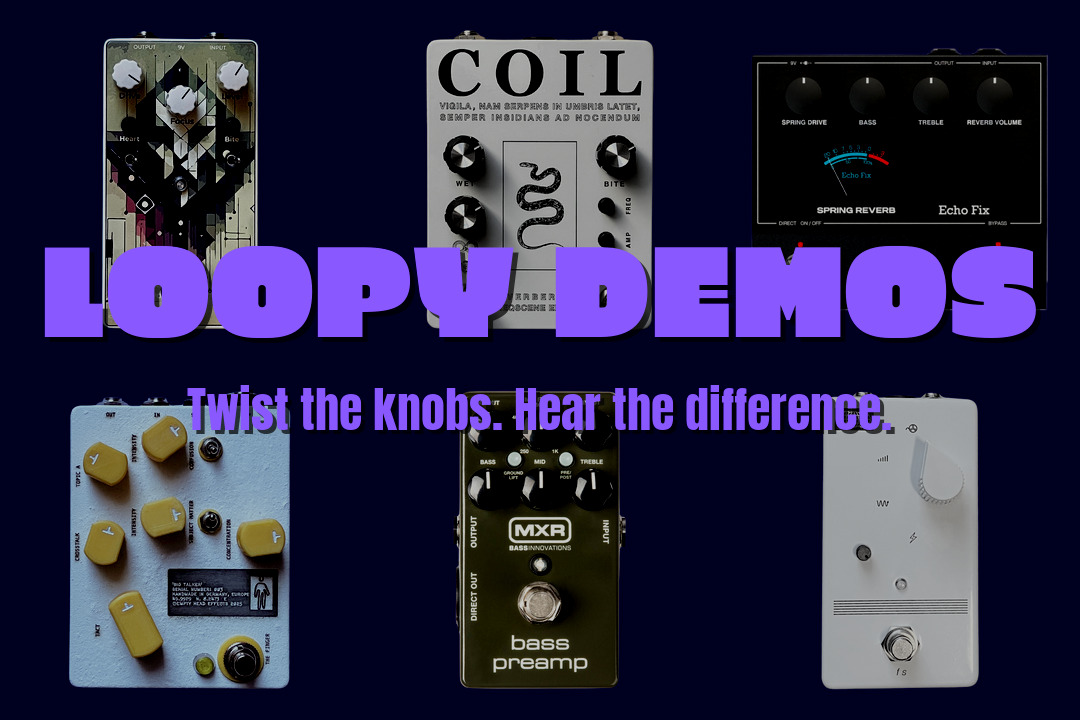
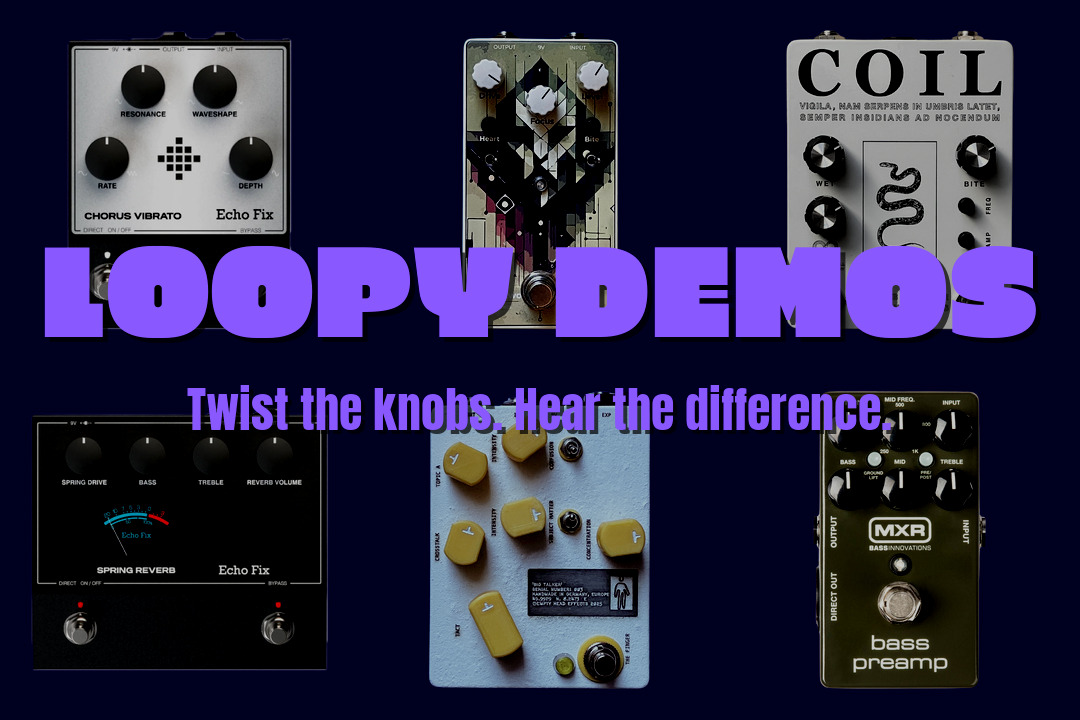
Echo fix chorus vibrato (#36)
* add basic files

* add some presets

* more presets

* add copy

---------

diff --git a/src/content/demos/echo-fix-ef-p3-chorus-vibrato.md b/src/content/demos/echo-fix-ef-p3-chorus-vibrato.md
@@ -1,0 +1,32 @@
+---
+builder: Echo Fix
+model: EF-P3 Chorus Vibrato
+slug: echo-fix-ef-p3-chorus-vibrato
+type: demo
+isSponsored: true
+date: 2025-05-28
+tags:
+  - chorus
+  - vibrato
+  - lo-fi
+externalLinks:
+  thomann: echo_fix_ef_p3_chorus_vibrato
+  builderLink: https://echofix.com/collections/pedals/products/echo-fix-ef-p3-chorus-vibrato-pedal
+---
+
+The EF-P3 Chorus Vibrato by Echo Fix is the luxury version of vintage chorus and vibrato pedals in modern format.
+
+It has a no-frills, utilitarian vibe but offers great variety with unique controls to fine tune how your sound gets warbled.
+
+**WAVESHAPE** can be smoothly adjusted from a lush, subtle sine wave to a dramatic and spongy sounding triangle wave.
+
+**RESONANCE** controls how much of the vibrato signal is being feedbacked into the BBD chip. Maxing this out makes the vibrato side feel almost like a chorus, even without the dry signal engaged.
+
+Plus, you get a handy foot-switch to easily go between lo-fi vibrato sounds and lush chorus.
+
+### Signal Chain
+
+- Fidelity Guitars Stellarosa with Mojo Lipstick Pickups (both pickups)
+- EF-P3 Chorus Vibrato
+- [Mixwave Benson Chimera Plugin*](https://sweetwater.sjv.io/B0N2PL)
+- A bit of room-like reverb from the [Valhalla Vintage Verb plugin](https://valhalladsp.com/shop/reverb/valhalla-vintage-verb/)
